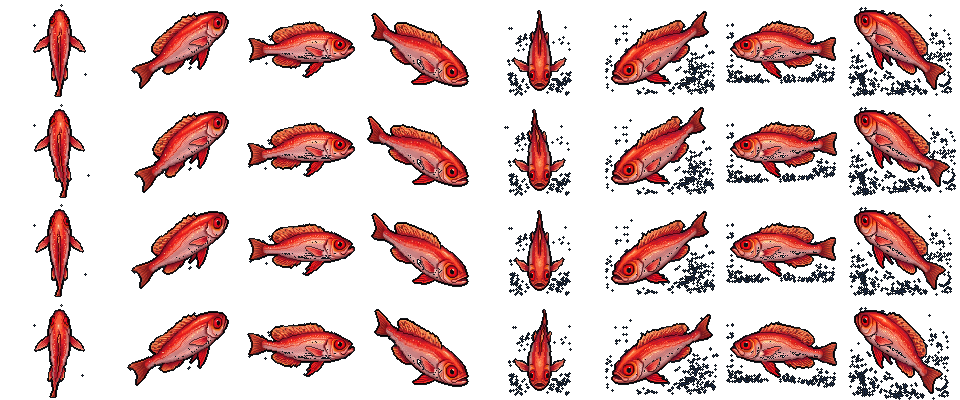
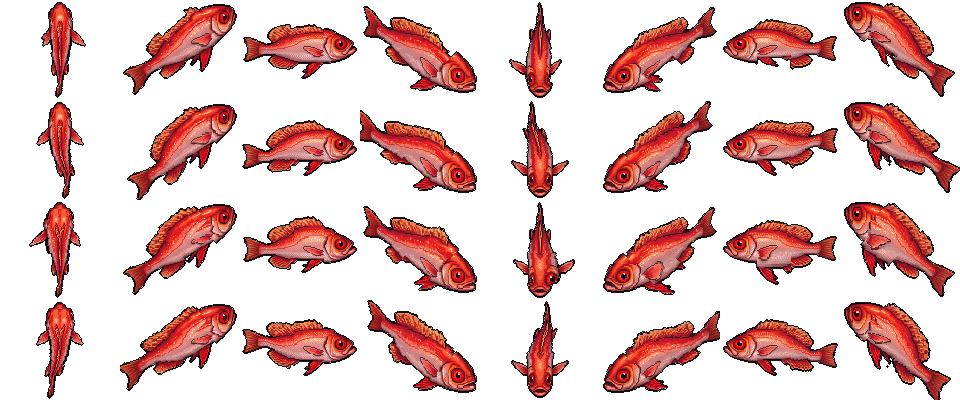
Fish tank: debacked 大眼雞 trial swim dynamics (v261031.10)
Generate 4-frame cycles from user-supplied transparent 8-dir sheet without
re-keying. Visible tail L/R, dorsal open/close, and lower-fin stretch+swing.
Other species unchanged pending trial OK.

diff --git a/fish_tank/tools/gen_debacked_swim_cycle.py b/fish_tank/tools/gen_debacked_swim_cycle.py
@@ -1,0 +1,265 @@
+#!/usr/bin/env python3
+"""Swim-cycle from user **already-debacked** 8-dir RGBA sheets.
+
+Do NOT re-key / re-deback — alpha is authoritative.
+
+Motion (visible amplitude):
+  - Tail: left–right swing
+  - Dorsal: open / close (flare toward tip ↔ fold toward spine)
+  - Lower fins (魚翼): stretch + swing
+
+Trial source:
+  media/.../user-debacked/red-bigeye-trial.png → assets/swim/red_bigeye.png
+
+Run: python -m fish_tank.tools.gen_debacked_swim_cycle
+"""
+
+from __future__ import annotations
+
+import math
+import sys
+from pathlib import Path
+from typing import List, Sequence, Tuple
+
+import numpy as np
+from PIL import Image
+from scipy import ndimage
+from scipy.ndimage import binary_dilation, map_coordinates
+
+ROOT = Path(__file__).resolve().parents[1]
+SWIM_OUT = ROOT / "assets" / "swim"
+SIDE_OUT = ROOT / "assets" / "side"
+
+SOURCE_CANDIDATES = [
+    Path("/cursor/stores/bc-29e56597-c251-41e3-85ea-3d3b81f1b86a/media/fish-tank-phase1-oblique/user-debacked/red-bigeye-trial.png"),
+    Path("/cursor/stores/self/media/fish-tank-phase1-oblique/user-debacked/red-bigeye-trial.png"),
+]
+
+CELL_W, CELL_H = 120, 100
+FRAME_COUNT = 4
+DIRS = ("N", "NE", "E", "SE", "S", "SW", "W", "NW")
+SPECIES_KEY = "red_bigeye"
+SIDE_W, SIDE_H = 96, 56
+
+
+def _find_source() -> Path:
+    for p in SOURCE_CANDIDATES:
+        if p.is_file():
+            return p
+    raise FileNotFoundError("red-bigeye-trial.png not found")
+
+
+def _extract_bases(rgba: np.ndarray) -> List[np.ndarray]:
+    """Split 8 fish using alpha only; fit into CELL_W×CELL_H (nearest)."""
+    op = rgba[:, :, 3] > 40
+    labeled, n = ndimage.label(op)
+    if n == 0:
+        raise RuntimeError("no opaque fish in debacked sheet")
+    sizes = ndimage.sum(op, labeled, range(1, n + 1))
+    order = np.argsort(sizes)[::-1]
+    fish_ids = [int(i) + 1 for i in order if sizes[i] >= 2000][:8]
+    if len(fish_ids) < 8:
+        raise RuntimeError(f"expected 8 fish blobs, found {len(fish_ids)}")
+    bboxes = []
+    for fid in fish_ids:
+        ys, xs = np.where(labeled == fid)
+        bboxes.append(
+            (
+                int(xs.min()),
+                int(ys.min()),
+                int(xs.max()),
+                int(ys.max()),
+                float(xs.mean()),
+                float(ys.mean()),
+            )
+        )
+    med_y = float(np.median([b[5] for b in bboxes]))
+    top = sorted([b for b in bboxes if b[5] < med_y], key=lambda b: b[4])
+    bot = sorted([b for b in bboxes if b[5] >= med_y], key=lambda b: b[4])
+    ordered = top + bot
+    if len(ordered) != 8:
+        raise RuntimeError("failed to order 2×4 grid")
+
+    cells: List[np.ndarray] = []
+    for b in ordered:
+        x0, y0, x1, y1 = b[0], b[1], b[2], b[3]
+        # slight pad but stay within image; keep existing alpha (no re-key)
+        pad = 6
+        H, W = rgba.shape[:2]
+        x0p, y0p = max(0, x0 - pad), max(0, y0 - pad)
+        x1p, y1p = min(W - 1, x1 + pad), min(H - 1, y1 + pad)
+        cut = rgba[y0p : y1p + 1, x0p : x1p + 1].copy()
+        # keep only this fish's alpha component
+        local = cut[:, :, 3] > 40
+        lab, nloc = ndimage.label(local)
+        if nloc > 0:
+            sz = ndimage.sum(local, lab, range(1, nloc + 1))
+            best = int(np.argmax(sz)) + 1
+            cut[lab != best, 3] = 0
+        # trim to opaque bbox
+        ys, xs = np.where(cut[:, :, 3] > 40)
+        cut = cut[int(ys.min()) : int(ys.max()) + 1, int(xs.min()) : int(xs.max()) + 1]
+        im = Image.fromarray(cut, "RGBA")
+        tw, th = im.size
+        scale = min(CELL_W / tw, CELL_H / th) * 0.94
+        nw, nh = max(1, int(tw * scale)), max(1, int(th * scale))
+        # NEAREST keeps pixel look; do not regenerate alpha via thresholding
+        scaled = im.resize((nw, nh), Image.Resampling.NEAREST)
+        canvas = Image.new("RGBA", (CELL_W, CELL_H), (0, 0, 0, 0))
+        canvas.paste(scaled, ((CELL_W - nw) // 2, (CELL_H - nh) // 2), scaled)
+        cells.append(np.array(canvas))
+    return cells
+
+
+def _forward_right(facing: int) -> Tuple[Tuple[float, float], Tuple[float, float]]:
+    ang = facing * (math.pi / 4.0)
+    fx, fy = math.sin(ang), -math.cos(ang)
+    rx, ry = math.cos(ang), math.sin(ang)
+    return (fx, fy), (rx, ry)
+
+
+def _centroid(cell: np.ndarray) -> Tuple[float, float]:
+    ys, xs = np.where(cell[:, :, 3] > 40)
+    if len(xs) == 0:
+        return CELL_W / 2.0, CELL_H / 2.0
+    return float(xs.mean()), float(ys.mean())
+
+
+def _warp_frame(base: np.ndarray, facing: int, frame: int) -> np.ndarray:
+    """Inverse-map warp with strong visible fin/tail motion; preserve sampled RGBA."""
+    phase = (frame / FRAME_COUNT) * 2.0 * math.pi
+    # Explicit phases
+    tail = math.sin(phase)  # L/R
+    dorsal_open = 0.55 + 0.45 * math.sin(phase + 0.7)  # 0.1..1.0 open amount
+    lower = math.sin(phase + math.pi / 2)  # stretch/swing
+
+    (fx, fy), (rx, ry) = _forward_right(facing)
+    cx, cy = _centroid(base)
+    ux, uy = 0.0, -1.0  # image up ≈ dorsal bias
+
+    ys, xs = np.mgrid[0:CELL_H, 0:CELL_W].astype(np.float32)
+    dx = xs - cx
+    dy = ys - cy
+    along = dx * fx + dy * fy
+    across = dx * rx + dy * ry
+    upness = dx * ux + dy * uy
+
+    # --- region weights ---
+    # Tail: behind nose
+    t = np.clip((-along) / 34.0, 0.0, 1.0)
+    t = t * t  # tip-weighted
+
+    # Dorsal: upper side, mid-body, near spine band then out to tip
+    dorsal_w = np.zeros_like(along)
+    d_mask = (along > -8) & (along < 32) & (upness > 1.5)
+    dorsal_w[d_mask] = np.clip((upness[d_mask] - 1.5) / 14.0, 0.0, 1.0) * (
+        1.0 - np.clip(np.abs(across[d_mask]) / 22.0, 0.0, 1.0) * 0.35
+    )
+
+    # Lower fins / 魚翼: belly-ish + outward mid-body
+    lower_w = np.zeros_like(along)
+    l_mask = (along > -12) & (along < 22) & (np.abs(across) > 5)
+    lower_w[l_mask] = np.clip((np.abs(across[l_mask]) - 5) / 14.0, 0.0, 1.0)
+    # Prefer belly (negative upness)
+    lower_w = np.where(upness < 2.0, lower_w * (1.0 + 0.35 * np.clip(-upness / 12.0, 0, 1)), lower_w * 0.55)
+
+    # Amplitudes (visible)
+    amp_tail = 7.5
+    amp_dorsal_close = 5.5  # how far tips fold toward spine when closed
+    amp_lower_stretch = 4.5
+    amp_lower_swing = 5.0
+
+    # Tail L/R (across)
+    shift_across = tail * amp_tail * t
+    # slight along foreshorten on tail tip
+    shift_along = -abs(tail) * 1.4 * t
+
+    # Dorsal open/close: when closed, pull tips toward spine (reduce |across| in source)
+    # Inverse map: sample from farther-out across when closed so dest looks folded in
+    close = 1.0 - dorsal_open  # 0 open … ~0.9 closed
+    # For dorsal pixels, sample from across * (1 + close*k)  → dest appears pulled in
+    dorsal_pull = close * amp_dorsal_close * dorsal_w
+    # sign: pull toward zero across
+    shift_across = shift_across + np.sign(across + 1e-3) * dorsal_pull
+    # open lifts tip slightly toward image-up
+    shift_along = shift_along + (dorsal_open - 0.55) * 2.2 * dorsal_w
+    sx_up = ux * (dorsal_open - 0.55) * 2.8 * dorsal_w
+    sy_up = uy * (dorsal_open - 0.55) * 2.8 * dorsal_w
+
+    # Lower fins: stretch (push |across|) + swing
+    stretch = (0.5 + 0.5 * lower)  # 0..1
+    lower_out = stretch * amp_lower_stretch * lower_w
+    # inverse: sample from closer-to-spine when dest is stretched out
+    shift_across = shift_across - np.sign(across + 1e-3) * lower_out
+    shift_across = shift_across + lower * amp_lower_swing * lower_w * 0.85
+    shift_along = shift_along - abs(lower) * 1.2 * lower_w
+
+    sx = xs - (rx * shift_across + fx * shift_along) - sx_up
+    sy = ys - (ry * shift_across + fy * shift_along) - sy_up
+
+    out = np.zeros((CELL_H, CELL_W, 4), dtype=np.uint8)
+    # Sample each channel with nearest (keep pixel look / alpha)
+    for c in range(4):
+        sampled = map_coordinates(
+            base[:, :, c].astype(np.float32),
+            [sy, sx],
+            order=0,
+            mode="constant",
+            cval=0.0,
+        )
+        out[:, :, c] = np.clip(sampled, 0, 255).astype(np.uint8)
+
+    # Thin outline on new alpha edge (does not re-key body)
+    op = out[:, :, 3] > 40
+    edge = binary_dilation(op) & ~op
+    # only write outline where fully empty
+    out[edge] = (18, 22, 26, 255)
+    return out
+
+
+def _side_from_east(cell: np.ndarray) -> np.ndarray:
+    ys, xs = np.where(cell[:, :, 3] > 40)
+    if len(xs) == 0:
+        return np.zeros((SIDE_H, SIDE_W, 4), dtype=np.uint8)
+    trimmed = cell[int(ys.min()) : int(ys.max()) + 1, int(xs.min()) : int(xs.max()) + 1]
+    im = Image.fromarray(trimmed, "RGBA")
+    tw, th = im.size
+    scale = min(SIDE_W / tw, SIDE_H / th) * 0.92
+    nw, nh = max(1, int(tw * scale)), max(1, int(th * scale))
+    scaled = im.resize((nw, nh), Image.Resampling.NEAREST)
+    out = Image.new("RGBA", (SIDE_W, SIDE_H), (0, 0, 0, 0))
+    out.paste(scaled, ((SIDE_W - nw) // 2, (SIDE_H - nh) // 2), scaled)
+    return np.array(out)
+
+
+def main(argv: Sequence[str] | None = None) -> int:
+    src = _find_source()
+    print("source (debacked, alpha authoritative):", src)
+    rgba = np.array(Image.open(src).convert("RGBA"))
+    bases = _extract_bases(rgba)
+    for i, b in enumerate(bases):
+        op = int((b[:, :, 3] > 40).sum())
+        print(f"  base {DIRS[i]}: opaque={op}")
+        if op < 80:
+            print(f"WARNING: {DIRS[i]} sparse", file=sys.stderr)
+
+    sheet = np.zeros((CELL_H * FRAME_COUNT, CELL_W * 8, 4), dtype=np.uint8)
+    for d in range(8):
+        for f in range(FRAME_COUNT):
+            fr = _warp_frame(bases[d], d, f)
+            sheet[f * CELL_H : (f + 1) * CELL_H, d * CELL_W : (d + 1) * CELL_W] = fr
+            print(f"  {DIRS[d]} f{f}: opaque={int((fr[:,:,3]>40).sum())}")
+
+    SWIM_OUT.mkdir(parents=True, exist_ok=True)
+    SIDE_OUT.mkdir(parents=True, exist_ok=True)
+    swim_path = SWIM_OUT / f"{SPECIES_KEY}.png"
+    Image.fromarray(sheet, "RGBA").save(swim_path)
+    side = _side_from_east(bases[2])
+    side_path = SIDE_OUT / f"{SPECIES_KEY}.png"
+    Image.fromarray(side, "RGBA").save(side_path)
+    print(f"wrote {swim_path} + {side_path.name}")
+    return 0
+
+
+if __name__ == "__main__":
+    raise SystemExit(main())

diff --git a/desktop_pet.py b/desktop_pet.py
@@ -54,7 +54,7 @@ LEGACY_WINDOW = {label: code for code, label in WINDOW_LABELS.items()}
 IMAGE_EXTS = {".png", ".jpg", ".jpeg", ".bmp", ".gif", ".webp"}
 
 # App / release version (YYMMDD.NN). Shown in Settings → About.
-APP_VERSION = "261031.09"
+APP_VERSION = "261031.10"
 
 # Windows Run-key name for "Start with Windows".
 AUTOSTART_REG_NAME = "DesktopPet"
